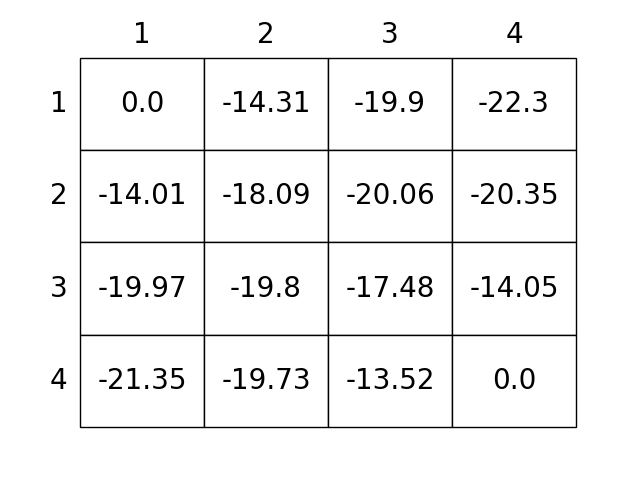
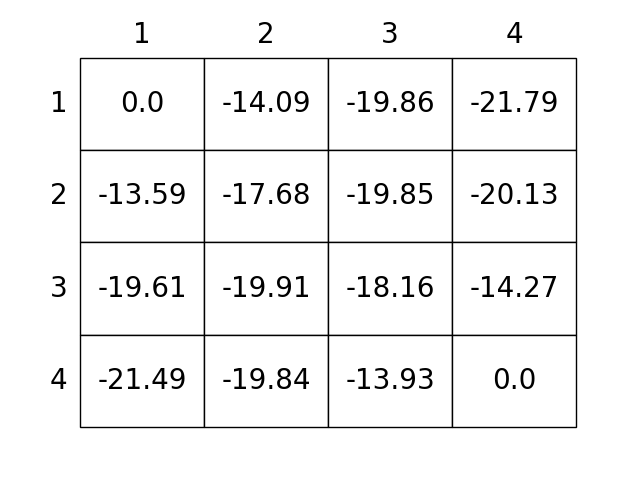
...

diff --git a/chapter_05/grid_world_mc_prediction.py b/chapter_05/grid_world_mc_prediction.py
@@ -12,21 +12,28 @@ TERMINAL_STATES = [(0, 0), (GRID_HEIGHT-1, GRID_WIDTH-1)]
 
 
 # 학습 이후의 가치함수를 표 형태로 그리는 함수
-def draw_image(image):
+def draw_image(values, filename):
+    state_values = np.zeros((GRID_HEIGHT, GRID_WIDTH))
+    for i in range(GRID_HEIGHT):
+        for j in range(GRID_WIDTH):
+            state_values[(i, j)] = values[(i, j)]
+
+    state_values = np.round(state_values, decimals=2)
+
     # 축 표시 제거, 크기 조절 등 이미지 그리기 이전 설정 작업
     fig, ax = plt.subplots()
     ax.set_axis_off()
     table = Table(ax, bbox=[0, 0, 1, 1])
 
-    nrows, ncols = image.shape
+    nrows, ncols = state_values.shape
     width, height = 1.0 / ncols, 1.0 / nrows
 
     # 렌더링 할 이미지에 표 셀과 해당 값 추가
-    for (i, j), val in np.ndenumerate(image):
+    for (i, j), val in np.ndenumerate(state_values):
         table.add_cell(i, j, width, height, text=val, loc='center', facecolor='white')
 
     # 행, 열 라벨 추가
-    for i in range(len(image)):
+    for i in range(len(state_values)):
         table.add_cell(i, -1, width, height, text=i+1, loc='right', edgecolor='none', facecolor='none')
         table.add_cell(-1, i, width, height/2, text=i+1, loc='center', edgecolor='none', facecolor='none')
 
@@ -34,6 +41,11 @@ def draw_image(image):
          cell.get_text().set_fontsize(20)
 
     ax.add_table(table)
+
+    print("!#@#232")
+    plt.savefig(filename)
+    plt.close()
+
 
 # 환경에서 무작위로 에피소드(현재 상태, 행동, 다음 상태, 보상)를 생성함
 def generate_random_episode(env):
@@ -48,16 +60,18 @@ def generate_random_episode(env):
     episode.append((initial_state, -1))
     visited_states.append(initial_state)
 
+    state = initial_state
     done = False
     while not done:
         # 상태에 관계없이 항상 4가지 행동 중 하나를 선택하여 수행
         action = random.randrange(env.action_space.num_actions)
 
-        state, reward, done, _ = env.step(action)
+        next_state, reward, done, _ = env.step(action)
 
-        if not done:
-            episode.append((state, reward))
-            visited_states.append(state)
+        episode.append((state, reward))
+        visited_states.append(state)
+
+        state = next_state
 
     return episode, visited_states
 
@@ -65,13 +79,12 @@ def generate_random_episode(env):
 # 첫 방문 행동 가치 MC 추정 함수
 def first_visit_mc_prediction(env, gamma, num_iter):
     # 비어있는 상태-가치 함수를 0으로 초기화하며 생성함
-    state_values = np.zeros((GRID_HEIGHT, GRID_WIDTH))
-
+    state_values = dict()
     returns = dict()
     for i in range(GRID_HEIGHT):
         for j in range(GRID_WIDTH):
-            state = (i, j)
-            returns[state] = list()
+            state_values[(i, j)] = 0.0
+            returns[(i, j)] = list()
 
     for i in range(num_iter):
         episode, visited_states = generate_random_episode(env)
@@ -95,13 +108,12 @@ def first_visit_mc_prediction(env, gamma, num_iter):
 # 모든 방문 행동 가치 MC 예측
 def every_visit_mc_prediction(env, gamma, num_iter):
     # 비어있는 상태-가치 함수를 0으로 초기화하며 생성함
-    state_values = np.zeros((GRID_HEIGHT, GRID_WIDTH))
-
+    state_values = dict()
     returns = dict()
     for i in range(GRID_HEIGHT):
         for j in range(GRID_WIDTH):
-            state = (i, j)
-            returns[state] = list()
+            state_values[(i, j)] = 0.0
+            returns[(i, j)] = list()
 
     for i in range(num_iter):
         episode, _ = generate_random_episode(env)
@@ -139,14 +151,19 @@ if __name__ == "__main__":
     env.reset()
 
     values, returns = first_visit_mc_prediction(env, 1.0, 10000)
-    print(values)
-    draw_image(np.round(values, decimals=2))
-    plt.savefig('images/first_visit_mc_state_values.png')
-    plt.close()
+    print("First Visit")
+    for i in range(GRID_HEIGHT):
+        for j in range(GRID_WIDTH):
+            print("({0}, {1}): {2:5.2f}".format(i, j, values[i, j]))
+        print()
+    draw_image(values, 'images/first_visit_mc_state_values.png')
 
     print()
+
     values, returns = every_visit_mc_prediction(env, 1.0, 10000)
-    print(values)
-    draw_image(np.round(values, decimals=2))
-    plt.savefig('images/every_visit_mc_state_values.png')
-    plt.close()
+    print("Every Visit")
+    for i in range(GRID_HEIGHT):
+        for j in range(GRID_WIDTH):
+            print("({0}, {1}): {2:5.2f}".format(i, j, values[i, j]))
+        print()
+    draw_image(values, 'images/every_visit_mc_state_values.png')

diff --git a/chapter_05/grid_world_mc_prediction_action.py b/chapter_05/grid_world_mc_prediction_action.py
@@ -1,0 +1,139 @@
+# 사용 패키지 임포트
+import os
+import numpy as np
+import random
+import matplotlib.pyplot as plt
+from matplotlib.table import Table
+from environments.gridworld import GridWorld
+
+GRID_HEIGHT = 4
+GRID_WIDTH = 4
+NUM_ACTIONS = 4
+TERMINAL_STATES = [(0, 0), (GRID_HEIGHT-1, GRID_WIDTH-1)]
+
+
+# 환경에서 무작위로 에피소드(현재 상태, 행동, 다음 상태, 보상)를 생성함
+def generate_random_episode(env):
+    episode = []
+    visited_state_actions = []
+
+    i = random.randrange(GRID_HEIGHT)
+    j = random.randrange(GRID_WIDTH)
+    initial_state = (i, j)
+    env.moveto(initial_state)
+
+    state = initial_state
+    done = False
+    while not done:
+        # 상태에 관계없이 항상 4가지 행동 중 하나를 선택하여 수행
+        action = random.randrange(env.action_space.num_actions)
+
+        next_state, reward, done, _ = env.step(action)
+
+        episode.append(((state, action), reward))
+        visited_state_actions.append((state, action))
+
+        state = next_state
+
+    return episode, visited_state_actions
+
+
+# 첫 방문 행동 가치 MC 추정 함수
+def first_visit_mc_prediction(env, gamma, num_iter):
+    # 비어있는 상태-가치 함수를 0으로 초기화하며 생성함
+    state_action_values = dict()
+    returns = dict()
+    for i in range(GRID_HEIGHT):
+        for j in range(GRID_WIDTH):
+            for action in range(NUM_ACTIONS):
+                state_action_values[((i, j), action)] = 0.0
+                returns[((i, j), action)] = list()
+
+    for i in range(num_iter):
+        episode, visited_state_actions = generate_random_episode(env)
+
+        G = 0
+        for idx, ((state, action), reward) in enumerate(reversed(episode)):
+            G = gamma * G + reward
+
+            value_prediction_conditions = [
+                (state, action) not in visited_state_actions[:len(visited_state_actions) - idx - 1],
+                state not in TERMINAL_STATES
+            ]
+
+            if all(value_prediction_conditions):
+                returns[(state, action)].append(G)
+                state_action_values[(state, action)] = np.mean(returns[(state, action)])
+
+    return state_action_values, returns
+
+
+# 모든 방문 행동 가치 MC 예측
+def every_visit_mc_prediction(env, gamma, num_iter):
+    # 비어있는 상태-가치 함수를 0으로 초기화하며 생성함
+    state_action_values = dict()
+    returns = dict()
+    for i in range(GRID_HEIGHT):
+        for j in range(GRID_WIDTH):
+            for action in range(NUM_ACTIONS):
+                state_action_values[((i, j), action)] = 0.0
+                returns[((i, j), action)] = list()
+
+    for i in range(num_iter):
+        episode, _ = generate_random_episode(env)
+
+        G = 0
+        for idx, ((state, action), reward) in enumerate(reversed(episode)):
+            G = gamma * G + reward
+
+            value_prediction_conditions = [
+                state not in TERMINAL_STATES
+            ]
+
+            if all(value_prediction_conditions):
+                returns[(state, action)].append(G)
+                state_action_values[(state, action)] = np.mean(returns[(state, action)])
+
+    return state_action_values, returns
+
+
+if __name__ == "__main__":
+    # 그리드 월드 환경 객체 생성
+    env = GridWorld(
+        height=GRID_HEIGHT,
+        width=GRID_WIDTH,
+        start_state=(0, 0),
+        terminal_state=TERMINAL_STATES,
+        transition_reward=-1.0,
+        terminal_reward=-1.0,
+        outward_reward=-1.0
+    )
+    env.reset()
+
+    state_action_values, returns = first_visit_mc_prediction(env, 1.0, 10000)
+    print("First Visit")
+    for i in range(GRID_HEIGHT):
+        for j in range(GRID_WIDTH):
+            print("({0}, {1}):".format(i, j))
+            for action in range(NUM_ACTIONS):
+                print("  Action {0}: {1:5.2f}".format(
+                    env.action_space.ACTION_SYMBOLS[action],
+                    state_action_values[((i, j), action)]
+                ))
+        print()
+
+    print()
+
+    state_action_values, returns = every_visit_mc_prediction(env, 1.0, 10000)
+    print("Every Visit")
+    for i in range(GRID_HEIGHT):
+        for j in range(GRID_WIDTH):
+            print("({0}, {1}):".format(i, j))
+            for action in range(NUM_ACTIONS):
+                print("  Action {0}: {1:5.2f}".format(
+                    env.action_space.ACTION_SYMBOLS[action],
+                    state_action_values[((i, j), action)]
+                ))
+        print()
+
+    print()

diff --git a/chapter_03/markov_decision_process.py b/chapter_03/markov_decision_process.py
@@ -30,23 +30,23 @@ def unique_step_wormhole(state, action):
 
 
 # 학습 이후의 가치함수를 표 형태로 그리는 함수
-def draw_image(image):
+def draw_image(state_values, filename):
     # 축 표시 제거, 크기 조절 등 이미지 그리기 이전 설정 작업
     fig, axis = plt.subplots()
     axis.set_axis_off()
     table = Table(axis, bbox=[0, 0, 1, 1])
 
-    num_rows, num_cols = image.shape
+    num_rows, num_cols = state_values.shape
     width, height = 1.0 / num_cols, 1.0 / num_rows
 
     # 렌더링할 이미지에 표 셀 추가
-    for (i, j), val in np.ndenumerate(image):
+    for (i, j), val in np.ndenumerate(state_values):
         if val == 0.0:
             val = ''
         table.add_cell(i, j, width, height, text=val, loc='center', facecolor='white')
 
     # 행, 열 라벨 추가
-    for i in range(len(image)):
+    for i in range(len(state_values)):
         table.add_cell(i, -1, width, height, text=i+1, loc='right', edgecolor='none', facecolor='none')
         table.add_cell(-1, i, width, height/2, text=i+1, loc='center', edgecolor='none', facecolor='none')
 
@@ -54,6 +54,9 @@ def draw_image(image):
          cell.get_text().set_fontsize(20)
 
     axis.add_table(table)
+
+    plt.savefig(filename, dpi=300)
+
 
 
 # GRID_WORLD 첫번째 예제
@@ -125,10 +128,11 @@ def grid_world_optimal_values(env):
 
 # MAIN
 if __name__ == '__main__':
+    if not os.path.exists('images/'):
+        os.makedirs('images/')
+
     value_function = np.zeros((GRID_HEIGHT, GRID_WIDTH))
-    draw_image(np.round(value_function, decimals=0))
-    plt.savefig('images/empty_grid_world.png')
-    plt.close()
+    draw_image(np.round(value_function, decimals=0), 'images/empty_grid_world.png')
 
     # 5x5 맵 생성
     env = GridWorld(
@@ -144,15 +148,11 @@ if __name__ == '__main__':
     env.reset()
     state_values = grid_world_state_values(env)
     print(state_values)
-    draw_image(np.round(state_values, decimals=2))
-    plt.savefig('images/grid_world_state_values.png')
-    plt.close()
+    draw_image(np.round(state_values, decimals=2), 'images/grid_world_state_values.png')
 
     print()
 
     env.reset()
     optimal_state_values = grid_world_optimal_values(env)
     print(optimal_state_values)
-    draw_image(np.round(optimal_state_values, decimals=2))
-    plt.savefig('images/grid_world_optimal_values.png')
-    plt.close()
+    draw_image(np.round(optimal_state_values, decimals=2), 'images/grid_world_optimal_values.png')

diff --git a/chapter_04/policy_evaluation.py b/chapter_04/policy_evaluation.py
@@ -11,21 +11,21 @@ DISCOUNT_RATE = 1.0
 THETA = 0.0001
 
 # 학습 이후의 가치함수를 표 형태로 그리는 함수
-def draw_image(image):
+def draw_image(state_values, filename):
     # 축 표시 제거, 크기 조절 등 이미지 그리기 이전 설정 작업
     fig, ax = plt.subplots()
     ax.set_axis_off()
     table = Table(ax, bbox=[0, 0, 1, 1])
 
-    nrows, ncols = image.shape
+    nrows, ncols = state_values.shape
     width, height = 1.0 / ncols, 1.0 / nrows
 
     # 렌더링 할 이미지에 표 셀과 해당 값 추가
-    for (i, j), val in np.ndenumerate(image):
+    for (i, j), val in np.ndenumerate(state_values):
         table.add_cell(i, j, width, height, text=val, loc='center', facecolor='white')
 
     # 행, 열 라벨 추가
-    for i in range(len(image)):
+    for i in range(len(state_values)):
         table.add_cell(i, -1, width, height, text=i+1, loc='right', edgecolor='none', facecolor='none')
         table.add_cell(-1, i, width, height/2, text=i+1, loc='center', edgecolor='none', facecolor='none')
 
@@ -33,6 +33,9 @@ def draw_image(image):
          cell.get_text().set_fontsize(20)
 
     ax.add_table(table)
+
+    plt.savefig(filename)
+    plt.close()
 
 
 # 상태 가치 함수를 계산하는 함수
@@ -92,9 +95,7 @@ def grid_world_policy_evaluation():
     print('정책 평가 --> 상태 가치 수렴: {} 회 반복'.format(iteration))
     print(state_values)
 
-    draw_image(np.round(state_values, decimals=2))
-    plt.savefig('images/state_values.png')
-    plt.close()
+    draw_image(np.round(state_values, decimals=2), 'images/state_values.png')
 
 
 # MAIN
